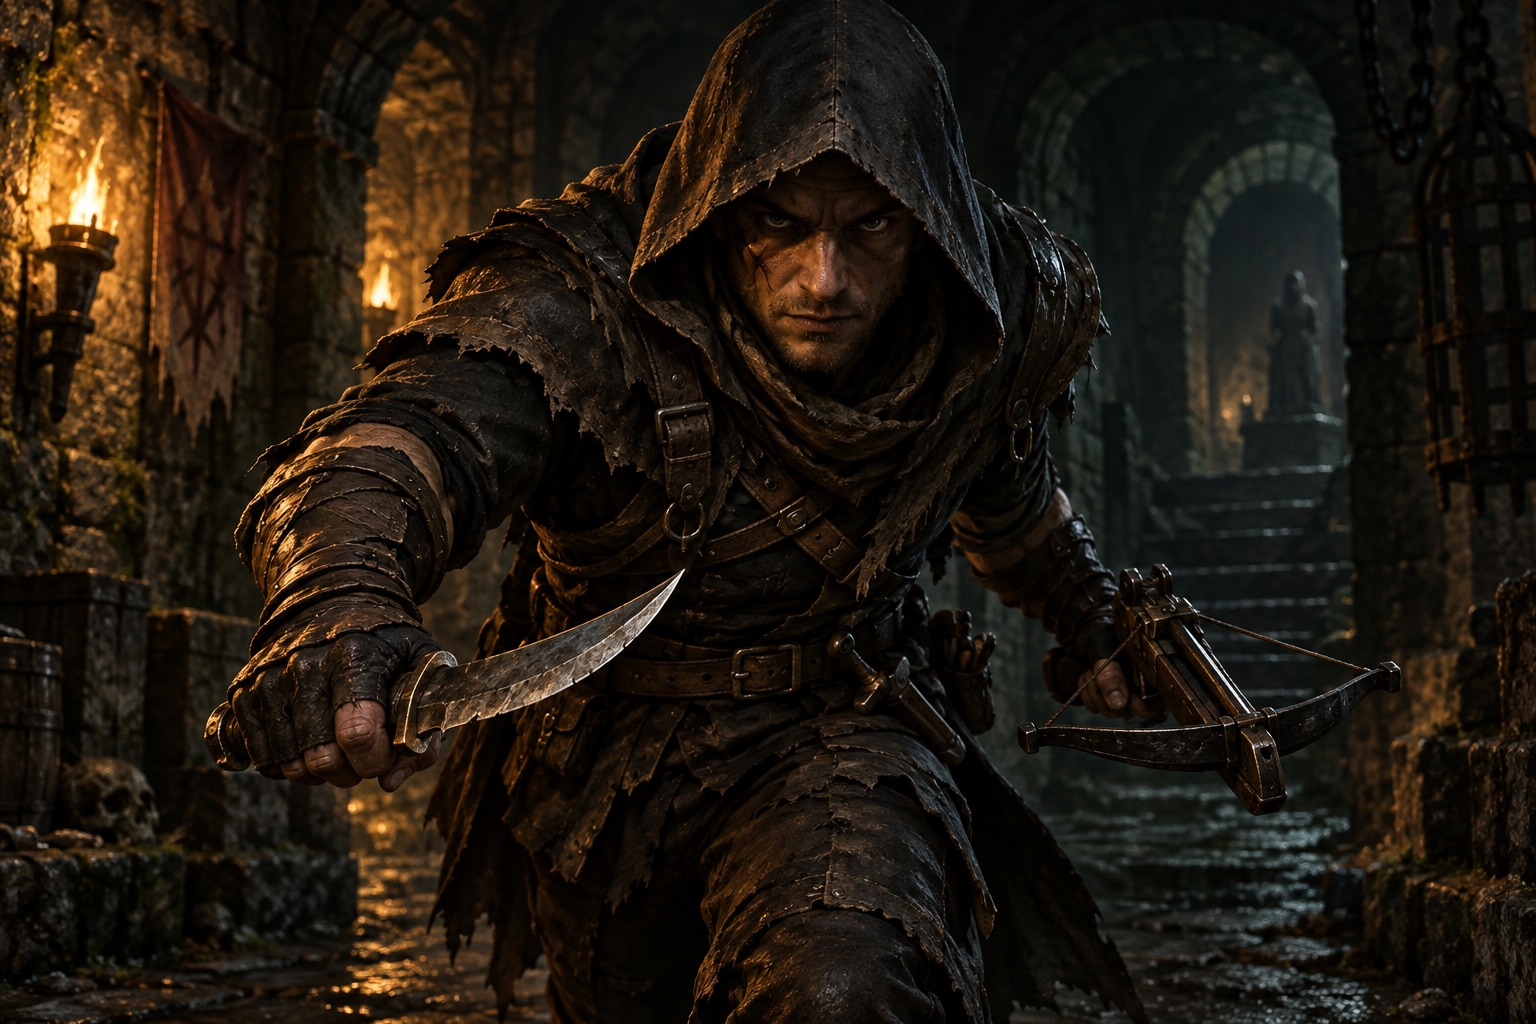
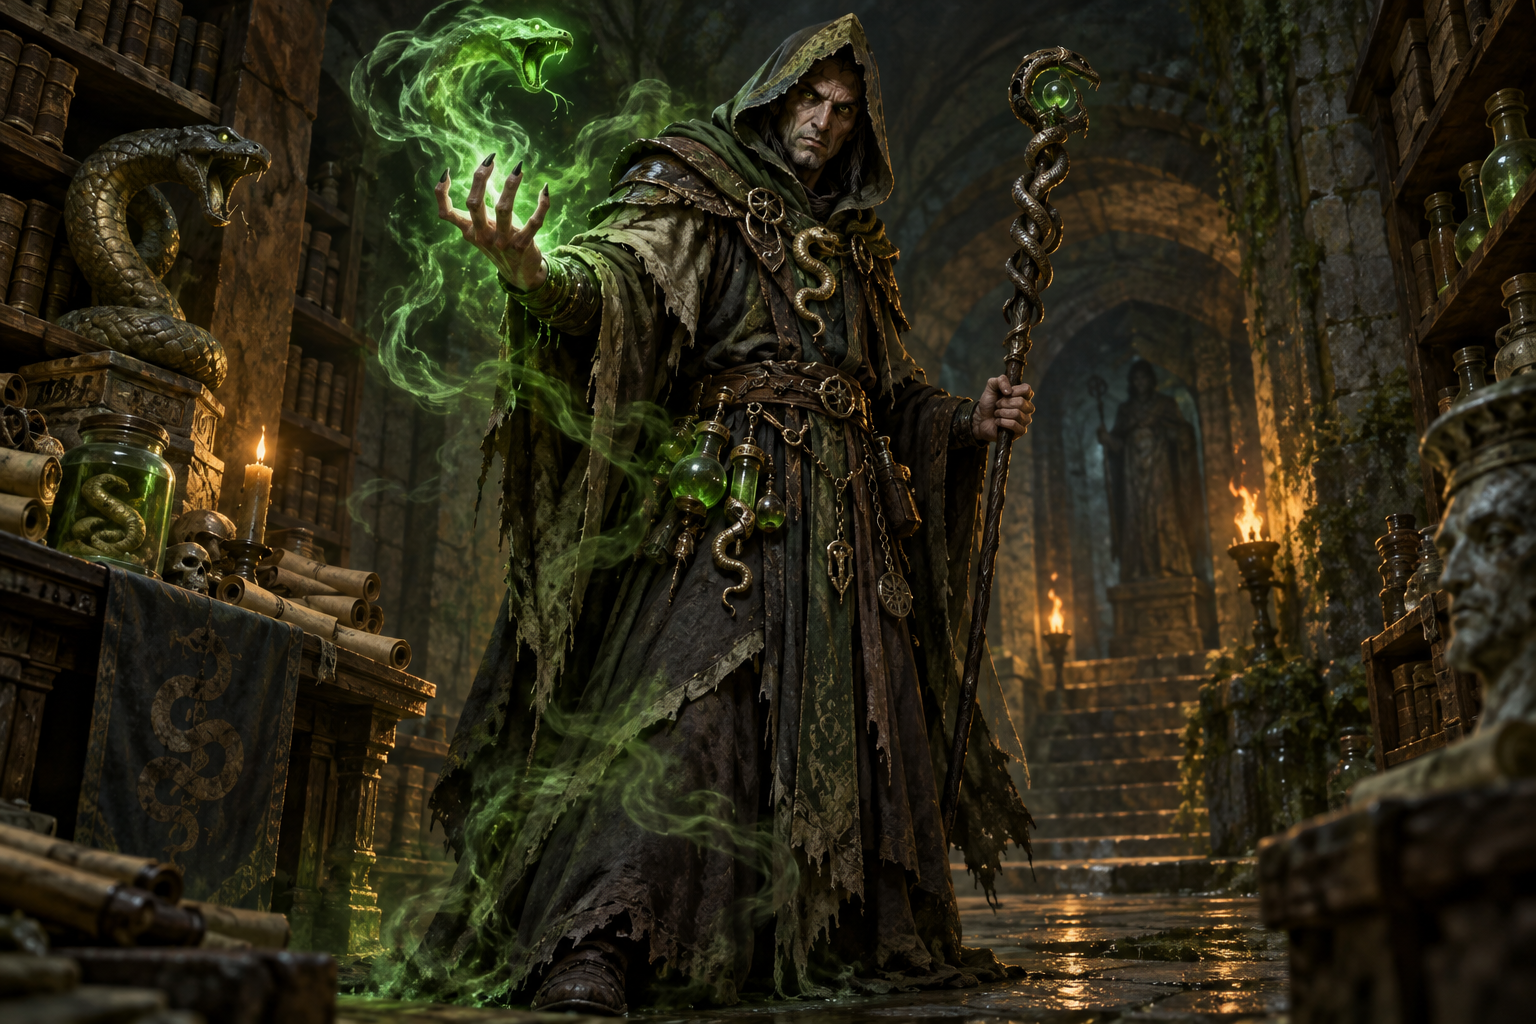
Give priests and mages distinct encounter artwork

diff --git a/test/encounter-art.js b/test/encounter-art.js
@@ -29,6 +29,10 @@ for(const def of definitions) {
 c.assert(g.get('Render.encounterArt({name:"Iron Ghoul"},13)')==="assets/monsters/iron-ghoul.jpg","Iron Ghoul works at all depths");
 c.assert(g.get('Render.encounterArt({name:"Gruzzik",base:"Iron Ghoul"},8)')==="assets/monsters/iron-ghoul.jpg","elite retains base species");
 c.assert(g.get('Render.encounterArt({name:"Feral Ghoul"},8)')==="assets/monsters/ghoul.jpg","ordinary ghouls have their own illustration");
+c.assert(g.get('Render.encounterArt({name:"Death Priest"},8)')==="assets/monsters/priest.jpg","death priests resolve to cleric artwork");
+c.assert(g.get('Render.encounterArt({name:"Venomous Mage"},8)')==="assets/monsters/mage.jpg","venomous mages resolve to spellcaster artwork");
+c.assert(!require("fs").readFileSync("assets/monsters/priest.jpg").equals(require("fs").readFileSync("assets/monsters/rogue.jpg")),"priest art is distinct from rogue art");
+c.assert(!require("fs").readFileSync("assets/monsters/mage.jpg").equals(require("fs").readFileSync("assets/monsters/rogue.jpg")),"mage art is distinct from rogue art");
 g.run('Render.monsterBox({id:"D8M0",name:"Dire Hound",art:"beast"},3,{floor:8})');
 c.assert(paints.length===0 && images.length===1 && labels.includes("Loading illustration…"),"pending image shows neutral loading state");
 c.assert(!rects.some(a=>a[0]===160 && a[1]===34 && a[2]===240 && a[3]===252),"old pixel portrait is never drawn");

diff --git a/js/render.js b/js/render.js
@@ -278,7 +278,7 @@ const Render = (() => {
     ["flame mage","mage"], ["needle wasp","needle-wasp"],
     ["ogre","ogre"], ["troll","troll"], ["minotaur","minotaur"], ["golem","golem"],
     ["stalker","stalker"], ["hound","hound"], ["ghoul","ghoul"], ["marauder","rogue"],
-    ["warlock","mage"], ["hexer","mage"], ["cultist","priest"], ["acolyte","priest"],
+    ["warlock","mage"], ["hexer","mage"], ["mage","mage"], ["cultist","priest"], ["acolyte","priest"], ["priest","priest"],
     ["drake","drake"], ["salamander","salamander"], ["wyrm","wyrm"],
     ["wight","wight"], ["revenant","revenant"], ["scorpion","scorpion"], ["widow","spider"],
   ];
